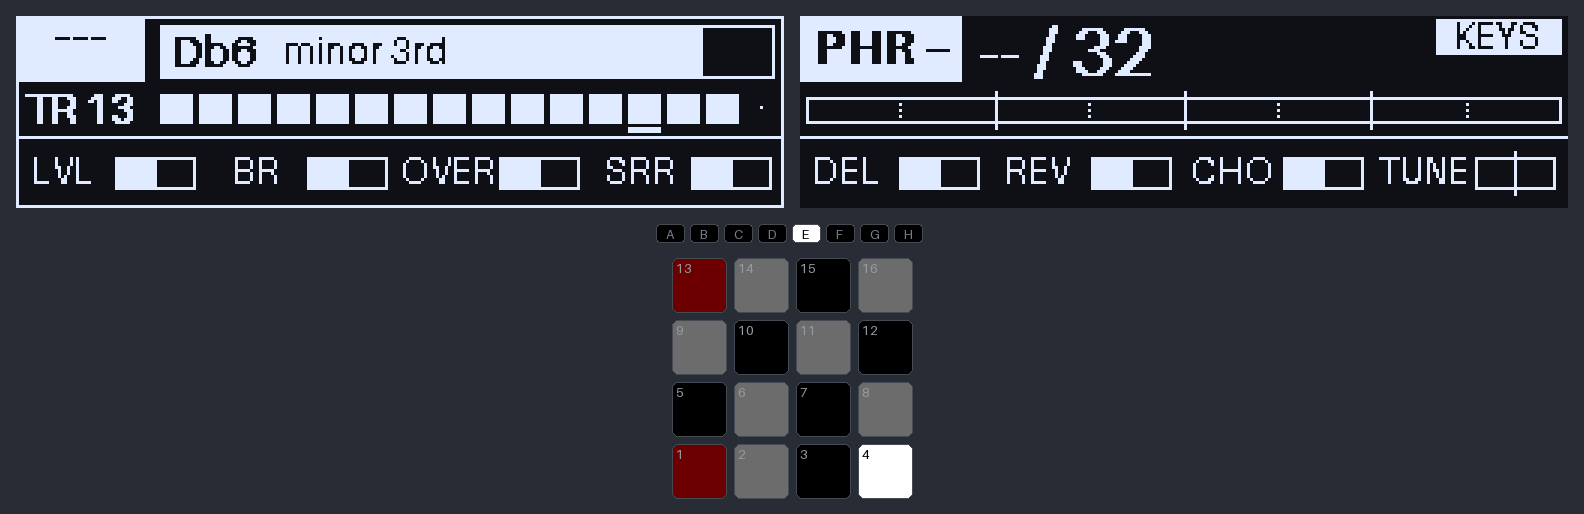
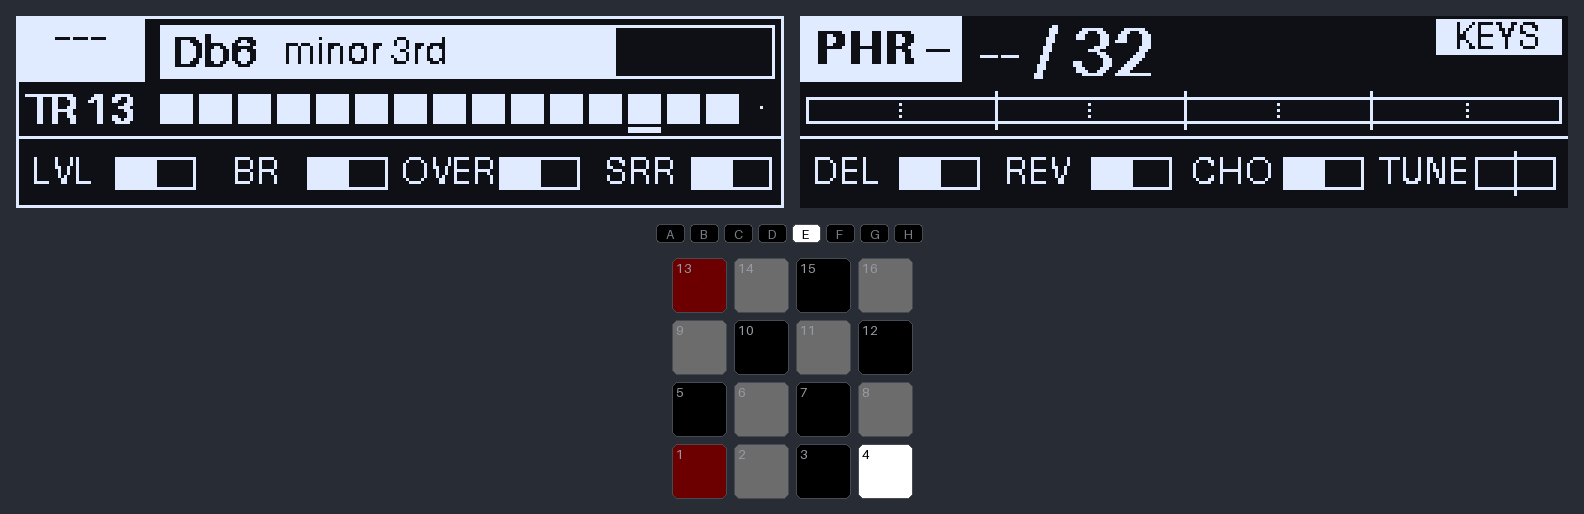
feat(mk-brain): carré plus gros sur les temps, vélocité moins vite au maximum [9]
Carré de la double croche en 9 x 8 px sur les temps, 7 x 6 ailleurs.
velocity.full_scale 2000 -> 3000 d'après les frappes mesurées sur la MK2.
Captures du guide régénérées.

Changed region(s): [[0.3712, 0.0311, 0.464, 0.1556]]

diff --git a/mk-brain/tests/test_engine.py b/mk-brain/tests/test_engine.py
@@ -37,7 +37,7 @@ def running_clock(ticks: int = 30) -> ClockTracker:
     return c
 
 
-def press(eng: Engine, t: int, pressure: int = 2500, pad: int = PAD1) -> list[Timed]:
+def press(eng: Engine, t: int, pressure: int = 3000, pad: int = PAD1) -> list[Timed]:
     out = eng.handle(PadEvent(pad, True, pressure), t)
     return out + eng.tick(t + 3 * MS)
 
@@ -69,7 +69,7 @@ def design(
 def test_note_fires_after_window_with_peak(cfg: Config) -> None:
     eng = Engine(cfg)
     assert eng.handle(PadEvent(PAD1, True, 300), 0) == []
-    assert eng.handle(PadEvent(PAD1, True, 2500), 1 * MS) == []
+    assert eng.handle(PadEvent(PAD1, True, 3000), 1 * MS) == []
     assert eng.tick(int(2.5 * MS)) == [(int(2.5 * MS), NoteOn(0, 60, 127))]
     assert eng.handle(PadEvent(PAD1, True, 2000), 3 * MS) == []  # tenu : rien de plus
     assert eng.handle(PadEvent(PAD1, False, 0), 100 * MS) == [(100 * MS, NoteOff(0, 60))]
@@ -77,7 +77,7 @@ def test_note_fires_after_window_with_peak(cfg: Config) -> None:
 
 def test_short_hit_fires_on_release(cfg: Config) -> None:
     eng = Engine(cfg)
-    eng.handle(PadEvent(PAD1, True, 2500), 0)
+    eng.handle(PadEvent(PAD1, True, 3000), 0)
     out = eng.handle(PadEvent(PAD1, False, 0), MS // 2)
     assert out == [(MS // 2, NoteOn(0, 60, 127)), (MS // 2 + NOTE_OFF_MIN_NS, NoteOff(0, 60))]
 
@@ -99,7 +99,7 @@ def test_pad_mode_toggles_mpc_keyboard_and_note_off_keeps_target(cfg: Config) ->
 
 def test_leds_lit_pad_and_active_group(cfg: Config) -> None:
     eng = Engine(cfg)
-    eng.handle(PadEvent(PAD1, True, 2500), 0)
+    eng.handle(PadEvent(PAD1, True, 3000), 0)
     leds = eng.leds()
     assert leds.pads[PAD1] == cfg.track_colors[1]
     assert leds.pads[0] != cfg.track_colors[13]  # pad 13 au repos, atténué
@@ -476,7 +476,7 @@ def test_menu_phrase_until_bank_change(cfg: Config, project: Project) -> None:
 def test_hit_kept_with_note_for_screen(cfg: Config, project: Project) -> None:
     eng = design(cfg, project=project)
     btn(eng, "GROUP_E")
-    press(eng, 0, pressure=2500)
+    press(eng, 0, pressure=3000)
     assert eng.last_hit is not None and eng.last_hit[1:3] == (70, 127)
 
 

diff --git a/mk-brain/src/mk_brain/render.py b/mk-brain/src/mk_brain/render.py
@@ -195,6 +195,7 @@ def _repeat_band(d: ImageDraw.ImageDraw, engine: Engine, screen: int) -> None:
 COLUMN = 46  # colonne « écran de la DT2 » (pattern, SMP, track), à gauche du bandeau gauche
 MUTE_TOP, MUTE_BOTTOM = 26, 35  # cases des mutes, 10 px de haut
 STEPS_PER_BAR = 16
+STEPS_PER_BEAT = 4
 TICKS_PER_STEP = 6  # 24 ticks par noire
 PATTERN_BARS = 4  # un tour de pattern de 64 pas
 TAG_W = 46  # étiquette du mode (MPC, KEYS, SOLO)
@@ -213,7 +214,7 @@ def _mute_strip(d: ImageDraw.ImageDraw, engine: Engine, left: int = COLUMN) -> N
     """16 cases, une par track : pleine = ouverte, vide = mutée ; track sélectionnée soulignée.
     La track de l'AUTO CHANNEL (pas de mute par son canal) n'a qu'un point. Les 16 cases
     comptent aussi les doubles croches de la mesure : un carré intérieur, en inverse de sa
-    case, marque celle qui joue."""
+    case, marque celle qui joue, plus gros sur les temps (cases 1, 5, 9, 13)."""
     cell = (WIDTH - left) // 16
     top, bottom = MUTE_TOP, MUTE_BOTTOM
     step = _step(engine)
@@ -229,7 +230,10 @@ def _mute_strip(d: ImageDraw.ImageDraw, engine: Engine, left: int = COLUMN) -> N
             d.rectangle((x0, top, x1, bottom), fill=1)
             full = True
         if step == t - 1:
-            d.rectangle((x0 + 2, top + 2, x1 - 2, bottom - 2), fill=0 if full else 1)
+            inset = 1 if step % STEPS_PER_BEAT == 0 else 2  # plus gros sur le temps
+            d.rectangle(
+                (x0 + inset, top + inset, x1 - inset, bottom - inset), fill=0 if full else 1
+            )
         if t == engine.track:
             d.rectangle((x0, bottom + 2, x1, bottom + 3), fill=1)
 

diff --git a/mk-brain/tests/test_render.py b/mk-brain/tests/test_render.py
@@ -92,6 +92,16 @@ def test_mute_strip_marks_playing_sixteenth(cfg: Config) -> None:
     assert render.left(Engine(cfg), 0).getpixel((_cell(2), mid))  # à l'arrêt : rien
 
 
+def test_mute_strip_square_is_bigger_on_the_beat(cfg: Config) -> None:
+    """Sur un temps (cases 1, 5, 9, 13) le carré prend presque toute la case."""
+    edge = render.MUTE_TOP + 1  # ligne juste sous le bord de la case
+    eng = at_bar(cfg, 3)  # 2e double croche : petit carré, la ligne reste pleine
+    assert render.left(eng, 0).getpixel((_cell(2), edge))
+    advance(eng, 2 * 96 + 10, 2 * 96 + 26)  # 5e double croche : 2e temps
+    img = render.left(eng, 0)
+    assert not img.getpixel((_cell(5), edge)) and img.getpixel((_cell(5), render.MUTE_TOP))
+
+
 def test_mode_tag_always_shown(cfg: Config) -> None:
     """MPC, KEYS ou SOLO en haut à droite de l'écran droit ; NOTE REPEAT tenu : sous
     les divisions."""

diff --git a/mk-brain/SPEC.md b/mk-brain/SPEC.md
@@ -985,10 +985,12 @@ TR 1   ■ ▣ □ ■ ■ ■ ■ ■ ■ ■ □ ■ ■ ■ ■ ·           
   par une alerte ; les mutes ne sont plus jamais masqués ;
 - mutes sur toute la largeur restante, cases de 10 px ; elles comptent
   aussi les 16 doubles croches de la mesure : un carré intérieur, en
-  inverse de sa case, marque celle qui joue (rien à l'arrêt). L'écran
-  gauche est donc redessiné à chaque double croche, soit 60 / 165 / 4 =
-  91 ms à 165 BPM, environ 11 images par seconde : **à mesurer sur le
-  Pi** ; repli : un carré par noire ;
+  inverse de sa case, marque celle qui joue (rien à l'arrêt) : 7 × 6 px
+  sur une double croche ordinaire, 9 × 8 px sur un temps (cases 1, 5, 9,
+  13 ; demandé le 2026-11-11). L'écran gauche est donc redessiné à chaque
+  double croche, soit 60 / 165 / 4 = 91 ms à 165 BPM, environ 11 images
+  par seconde ; essayé sur le Pi le 2026-11-11, sans retard depuis le
+  cache du rendu (v0.30.2) ;
 - bandeau droit : la phrase en noir sur blanc dans le coin gauche (`PHR
   01`, `PHR --` à l'arrêt), `mesure / longueur` en gros, les mesures avant
   le cap, dessous le pattern suivant (`> E04`) ou l'octave du clavier ;

diff --git a/mk-brain/docs/GUIDE.md b/mk-brain/docs/GUIDE.md
@@ -54,7 +54,8 @@ joué est présélectionné : un appui suffit. SHIFT + BROWSE (◀ ou ▶) revie
 - **Bande des mutes** : une case par track, pleine = ouverte, vide =
   mutée ; la track sélectionnée est soulignée ; la 16 n'a qu'un point
   (AUTO CHANNEL, pas de mute). Transport lancé, un petit carré parcourt
-  les 16 cases : c'est la double croche en cours dans la mesure.
+  les 16 cases : c'est la double croche en cours dans la mesure. Il est
+  plus gros sur les temps (cases 1, 5, 9, 13).
 - **Écran droit, en haut** : la phrase en noir sur blanc (`PHR 01`), la
   mesure dans la phrase (`10 / 32`), les mesures avant le prochain cap
   (`-7 to 16`) et, dessous, le pattern suivant quand il est annoncé

diff --git a/mk-brain/CHANGELOG.md b/mk-brain/CHANGELOG.md
@@ -3,6 +3,16 @@
 Format [Keep a Changelog](https://keepachangelog.com/fr/1.1.0/). Chaque slice
 de `SPEC.md` § Phases = une entrée balisée `[N]` et une version mineure.
 
+## [0.30.4] - 2026-11-11
+
+### Modifié
+
+- [9] Bande des mutes : le carré de la double croche en cours est plus
+  gros sur les temps (9 × 8 px en cases 1, 5, 9, 13 ; 7 × 6 ailleurs).
+- [1] Vélocité : `velocity.full_scale` 2000 → 3000. Les frappes d'un jeu
+  normal mesurées sur la MK2 vont de 2553 à 3203 et donnaient toutes 127.
+- Captures du guide (`docs/img/`) régénérées.
+
 ## [0.30.3] - 2026-11-11
 
 ### Modifié
